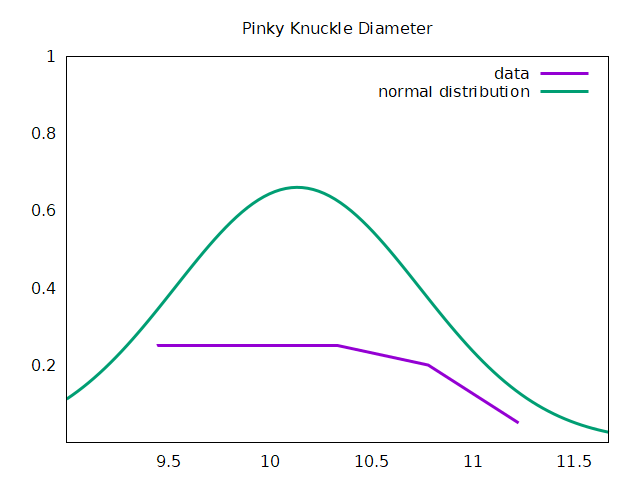
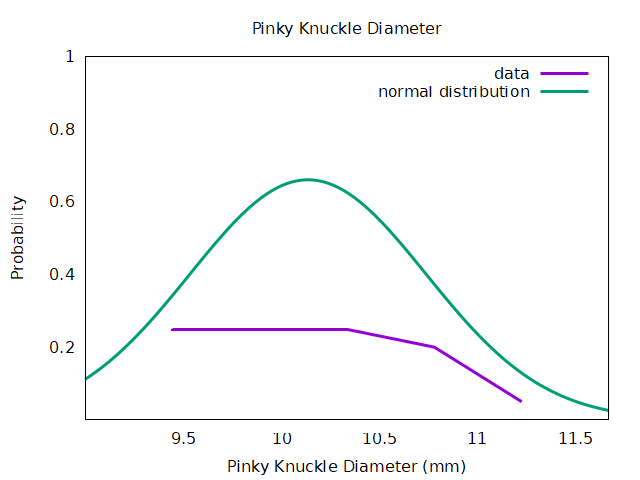
improve output message and memory freeing function

diff --git a/src/hw2/normal_distribution.c b/src/hw2/normal_distribution.c
@@ -71,10 +71,10 @@ void norm_dist_integral_check(norm_dist* pNd){
     output_format Format;
     get_format(&Format);
     if (pNd->integral > (float)1){
-        printf("%sERROR%s: The integral of the normal distribution is greater than %d.\n\r", Format.foreground.red, Format.style.reset, 1);
+        printf("%sFAIL%s: The integral of the normal distribution is greater than %d.\n\r", Format.foreground.red, Format.style.reset, 1);
         // exit(1);
     } else {
-        printf("%sSUCCESS%s: The integral of the normal distribution is less than %d.\n\r", Format.foreground.green, Format.style.reset, 1);
+        printf("%sPASS%s: The integral of the normal distribution is less than %d.\n\r", Format.foreground.green, Format.style.reset, 1);
     }
     return;
 }
@@ -84,12 +84,12 @@ void norm_dist_y_check(norm_dist* pNd, float* y_arr){
     get_format(&Format);
     for(int i = 0; i < pNd->arr_length; i++){
         if (y_arr[i] > (float)1){
-            printf("%sERROR%s: The y value of the normal distribution is greater than %d.\n\r", Format.foreground.red, Format.style.reset, 1);
+            printf("%sFAIL%s: The y value of the normal distribution is greater than %d.\n\r", Format.foreground.red, Format.style.reset, 1);
             // exit(1);
             return;
         }
     }
-    printf("%sSUCCESS%s: The y value of the normal distribution is less than %d.\n\r", Format.foreground.green, Format.style.reset, 1);
+    printf("%sPASS%s: The y value of the normal distribution is less than %d.\n\r", Format.foreground.green, Format.style.reset, 1);
     return;
 }
 
@@ -105,7 +105,9 @@ void print_input_struct(input_struct* pIs, char* name){
 void cal_norm_dist(norm_dist* pNd, float mu, float sigma, float x_min, float x_max, float integral_step, input_struct* pInput_struct, char* name){
     get_norm_dist(pNd, mu, sigma, x_min, x_max, integral_step);
     float* pNorm_dist_x_arr = get_norm_dist_x_arr(pNd);
+    pInput_struct->pX_arr = pNorm_dist_x_arr;
     float* pNorm_dist_y_arr = get_norm_dist_y_arr(pNd, pNorm_dist_x_arr);
+    pInput_struct->pY_arr = pNorm_dist_y_arr;
     norm_dist_integral(pNd, pNorm_dist_y_arr);
     print_norm_dist(pNd, name);
     print_input_struct(pInput_struct, name);
@@ -113,5 +115,14 @@ void cal_norm_dist(norm_dist* pNd, float mu, float sigma, float x_min, float x_m
     norm_dist_y_check(pNd, pNorm_dist_y_arr);
     pour_arr_to_file(pNorm_dist_x_arr, pNd->arr_length, pInput_struct->tmp_file_1);
     pour_arr_to_file(pNorm_dist_y_arr, pNd->arr_length, pInput_struct->tmp_file_2);
+    return;
+}
+
+void free_norm_dist(input_struct* pInput_struct, char* name){
+    output_format Format;
+    get_format(&Format);
+    free(pInput_struct->pX_arr);
+    free(pInput_struct->pY_arr);
+    printf("%sSUCCESS%s: Freed memory of %s.\n\r", Format.foreground.green, Format.style.reset, name);
     return;
 }

diff --git a/src/hw2/data_plot.c b/src/hw2/data_plot.c
@@ -3,6 +3,7 @@
 #include <math.h>
 #include "data_plot.h"
 #include "data_proc.h"
+#include "output_format.h"
 
 /*
 REF
@@ -12,9 +13,11 @@ REF
 
 FILE* plot_open(char* pFilename){
     // open gnuplot interactive session and save to png file simultaneously
+    output_format Format;
+    get_format(&Format);
     FILE* gnuplot = popen("gnuplot --persist", "w");
     if (gnuplot == NULL){
-        printf("gnuplot not found...\n");
+        printf("%sERROR%s: gnuplot not found...\n\r", Format.foreground.red, Format.style.reset);
         exit(1);
     }
     fprintf(gnuplot, "set terminal %s font \"sans,12\"\n", GNUPLOT_TERMINAL);
@@ -47,21 +50,25 @@ void plot_close(FILE* gnuplot){
 }
 
 FILE* plot_save_open(){
+    output_format Format;
+    get_format(&Format);
     FILE* gnuplot;
     gnuplot = popen("gnuplot --persist", "w");
     if (gnuplot == NULL){
-        printf("gnuplot not found...\n");
+        printf("%sERROR%s: gnuplot not found...\n\r", Format.foreground.red, Format.style.reset);
         exit(1);
     }
     return gnuplot;
 }
 
 void plot_save_close(FILE* gnuplot){
+    output_format Format;
+    get_format(&Format);
     if (gnuplot != NULL){
         pclose(gnuplot);
-        printf("Closed gnuplot successfully\n\r");
+        printf("%sSUCCESS%s: gnuplot closed.\n\r", Format.foreground.green, Format.style.reset);
     } else {
-        printf("Error closing gnuplot\n\r");
+        printf("%sERROR%s: Error closing gnuplot\n\r", Format.foreground.red, Format.style.reset);
     }
     return;
 }
@@ -86,6 +93,8 @@ void test_plot(dataset* pData, char* pFilename){
 }
 
 void save_data_div5_cnt(dataset* pData, char* pFilename){
+    output_format Format;
+    get_format(&Format);
     FILE* gnuplot = plot_save_open(pFilename);
     fprintf(gnuplot, "set table '%s'\n", pFilename);
     fprintf(gnuplot, "plot '-'\n");
@@ -100,7 +109,7 @@ void save_data_div5_cnt(dataset* pData, char* pFilename){
     fprintf(gnuplot, "e\n");
     fprintf(gnuplot, "unset table\n");
     pclose(gnuplot);
-    printf("Closed %s successfully\n\r", pFilename);
+    printf("%sSUCCESS%s: Data written to file %s.\n\r", Format.foreground.green, Format.style.reset, pFilename);
     return;
 }
 
@@ -129,6 +138,8 @@ void plot_data_div5(dataset* pData, char* pFilename, char* pTMP1, char* pTMP2){
     fprintf(gnuplot, "set title 'Pinky Knuckle Diameter'\n");
     fprintf(gnuplot, "set xrange [%g:%g]\n", x_min, x_max);
     fprintf(gnuplot, "set yrange [%g:%g]\n", y_min, y_max);
+    fprintf(gnuplot, "set xlabel 'Pinky Knuckle Diameter (%s)'\n", UNIT);
+    fprintf(gnuplot, "set ylabel 'Probability'\n");
     fprintf(gnuplot, "plot '%s' title 'data' with lines lw 3, '%s' title 'normal distribution' with lines lw 3\n", pTMP1, pTMP2);
     plot_close(gnuplot);
     return;

diff --git a/src/hw2/data_proc.c b/src/hw2/data_proc.c
@@ -49,13 +49,15 @@ void initialize_data(dataset* pData){
 }
 
 void read_csv(char* pFilename, dataset* pData){
+    output_format Format;
+    get_format(&Format);
     FILE *fp;
     fp = fopen(pFilename, "r");
     if (fp == NULL){
-        printf("Error opening file\n\r");
+        printf("%sERROR%s: Failed to open file %s.\n\r", Format.foreground.red, Format.style.reset, pFilename);
         exit(1);
     } else {
-        printf("Opened %s successfully\n\r", pFilename);
+        printf("%sSUCCESS%s: File %s opened.\n\r", Format.foreground.green, Format.style.reset, pFilename);
     }
     int read = 0;
     int records = 0;
@@ -65,6 +67,7 @@ void read_csv(char* pFilename, dataset* pData){
     } while (!feof(fp));
     pData->size = records - 1;
     fclose(fp);
+    printf("%sSUCCESS%s: File %s closed.\n\r", Format.foreground.green, Format.style.reset, pFilename);
     return;
 }
 
@@ -217,7 +220,7 @@ void split_data_checker(dataset* pData){
         sum += pData->split_count[i];
     }
     if (sum != pData->size){
-        printf("%sError%s: Split data check failed!\n\r", Format.foreground.red, Format.style.reset);
+        printf("%sFAIL%s: Split data check failed!\n\r", Format.foreground.red, Format.style.reset);
         exit(1);
     } else {
         printf("%sPASS%s: Split data check!\n\r", Format.foreground.green, Format.style.reset);

diff --git a/src/hw2/main.c b/src/hw2/main.c
@@ -79,10 +79,9 @@ int main(void) {
     plot_data_div5(&all_data, DIV5_ALL_IMG, TMP_DATA_FILE5, TMP_DATA_FILE6);
 
     // free memory
-    free(input_struct_data_male.pX_arr);
-    free(input_struct_data_male.pY_arr);
-    free(input_struct_data_female.pX_arr);
-    free(input_struct_data_female.pY_arr);
+    free_norm_dist(&input_struct_data_male, "MALE");
+    free_norm_dist(&input_struct_data_female, "FEMALE");
+    free_norm_dist(&input_struct_data_all, "ALL");
 
     printf("Program ended!\n\r");
     return 0;

diff --git a/src/hw2/normal_distribution.h b/src/hw2/normal_distribution.h
@@ -50,4 +50,7 @@ void print_input_struct(input_struct* pIs, char* name);
 // Pack all the functions above
 void cal_norm_dist(norm_dist* pNd, float mu, float sigma, float x_min, float x_max, float integral_step, input_struct* pInput_struct, char* name);
 
+// Free memory
+void free_norm_dist(input_struct* pInput_struct, char* name);
+
 #endif // NORMAL_DISTRIBUTION_H

diff --git a/src/hw2/readme.md b/src/hw2/readme.md
@@ -2,10 +2,14 @@
 
 Code is compiled on Windows 11 x64 platform with command ```make all ; ./main.exe ; make clean_win```
 
+## Dependencies
+
+1. [gnuplot=>http://www.gnuplot.info/](http://www.gnuplot.info/).
+
 ## Things to complete
 
-1. Memory deallocate function.
-2. Male / Female data stacked together graph.
-3. Diameter to perimeter conversion.
-4. Add output csv function.
-5. Output image should be bar chart.
+1. Male / Female data stacked together graph.
+2. Diameter to perimeter conversion.
+3. Add output csv function.
+4. Output image should be bar chart.
+5. Calcuate minimum error boundary.
